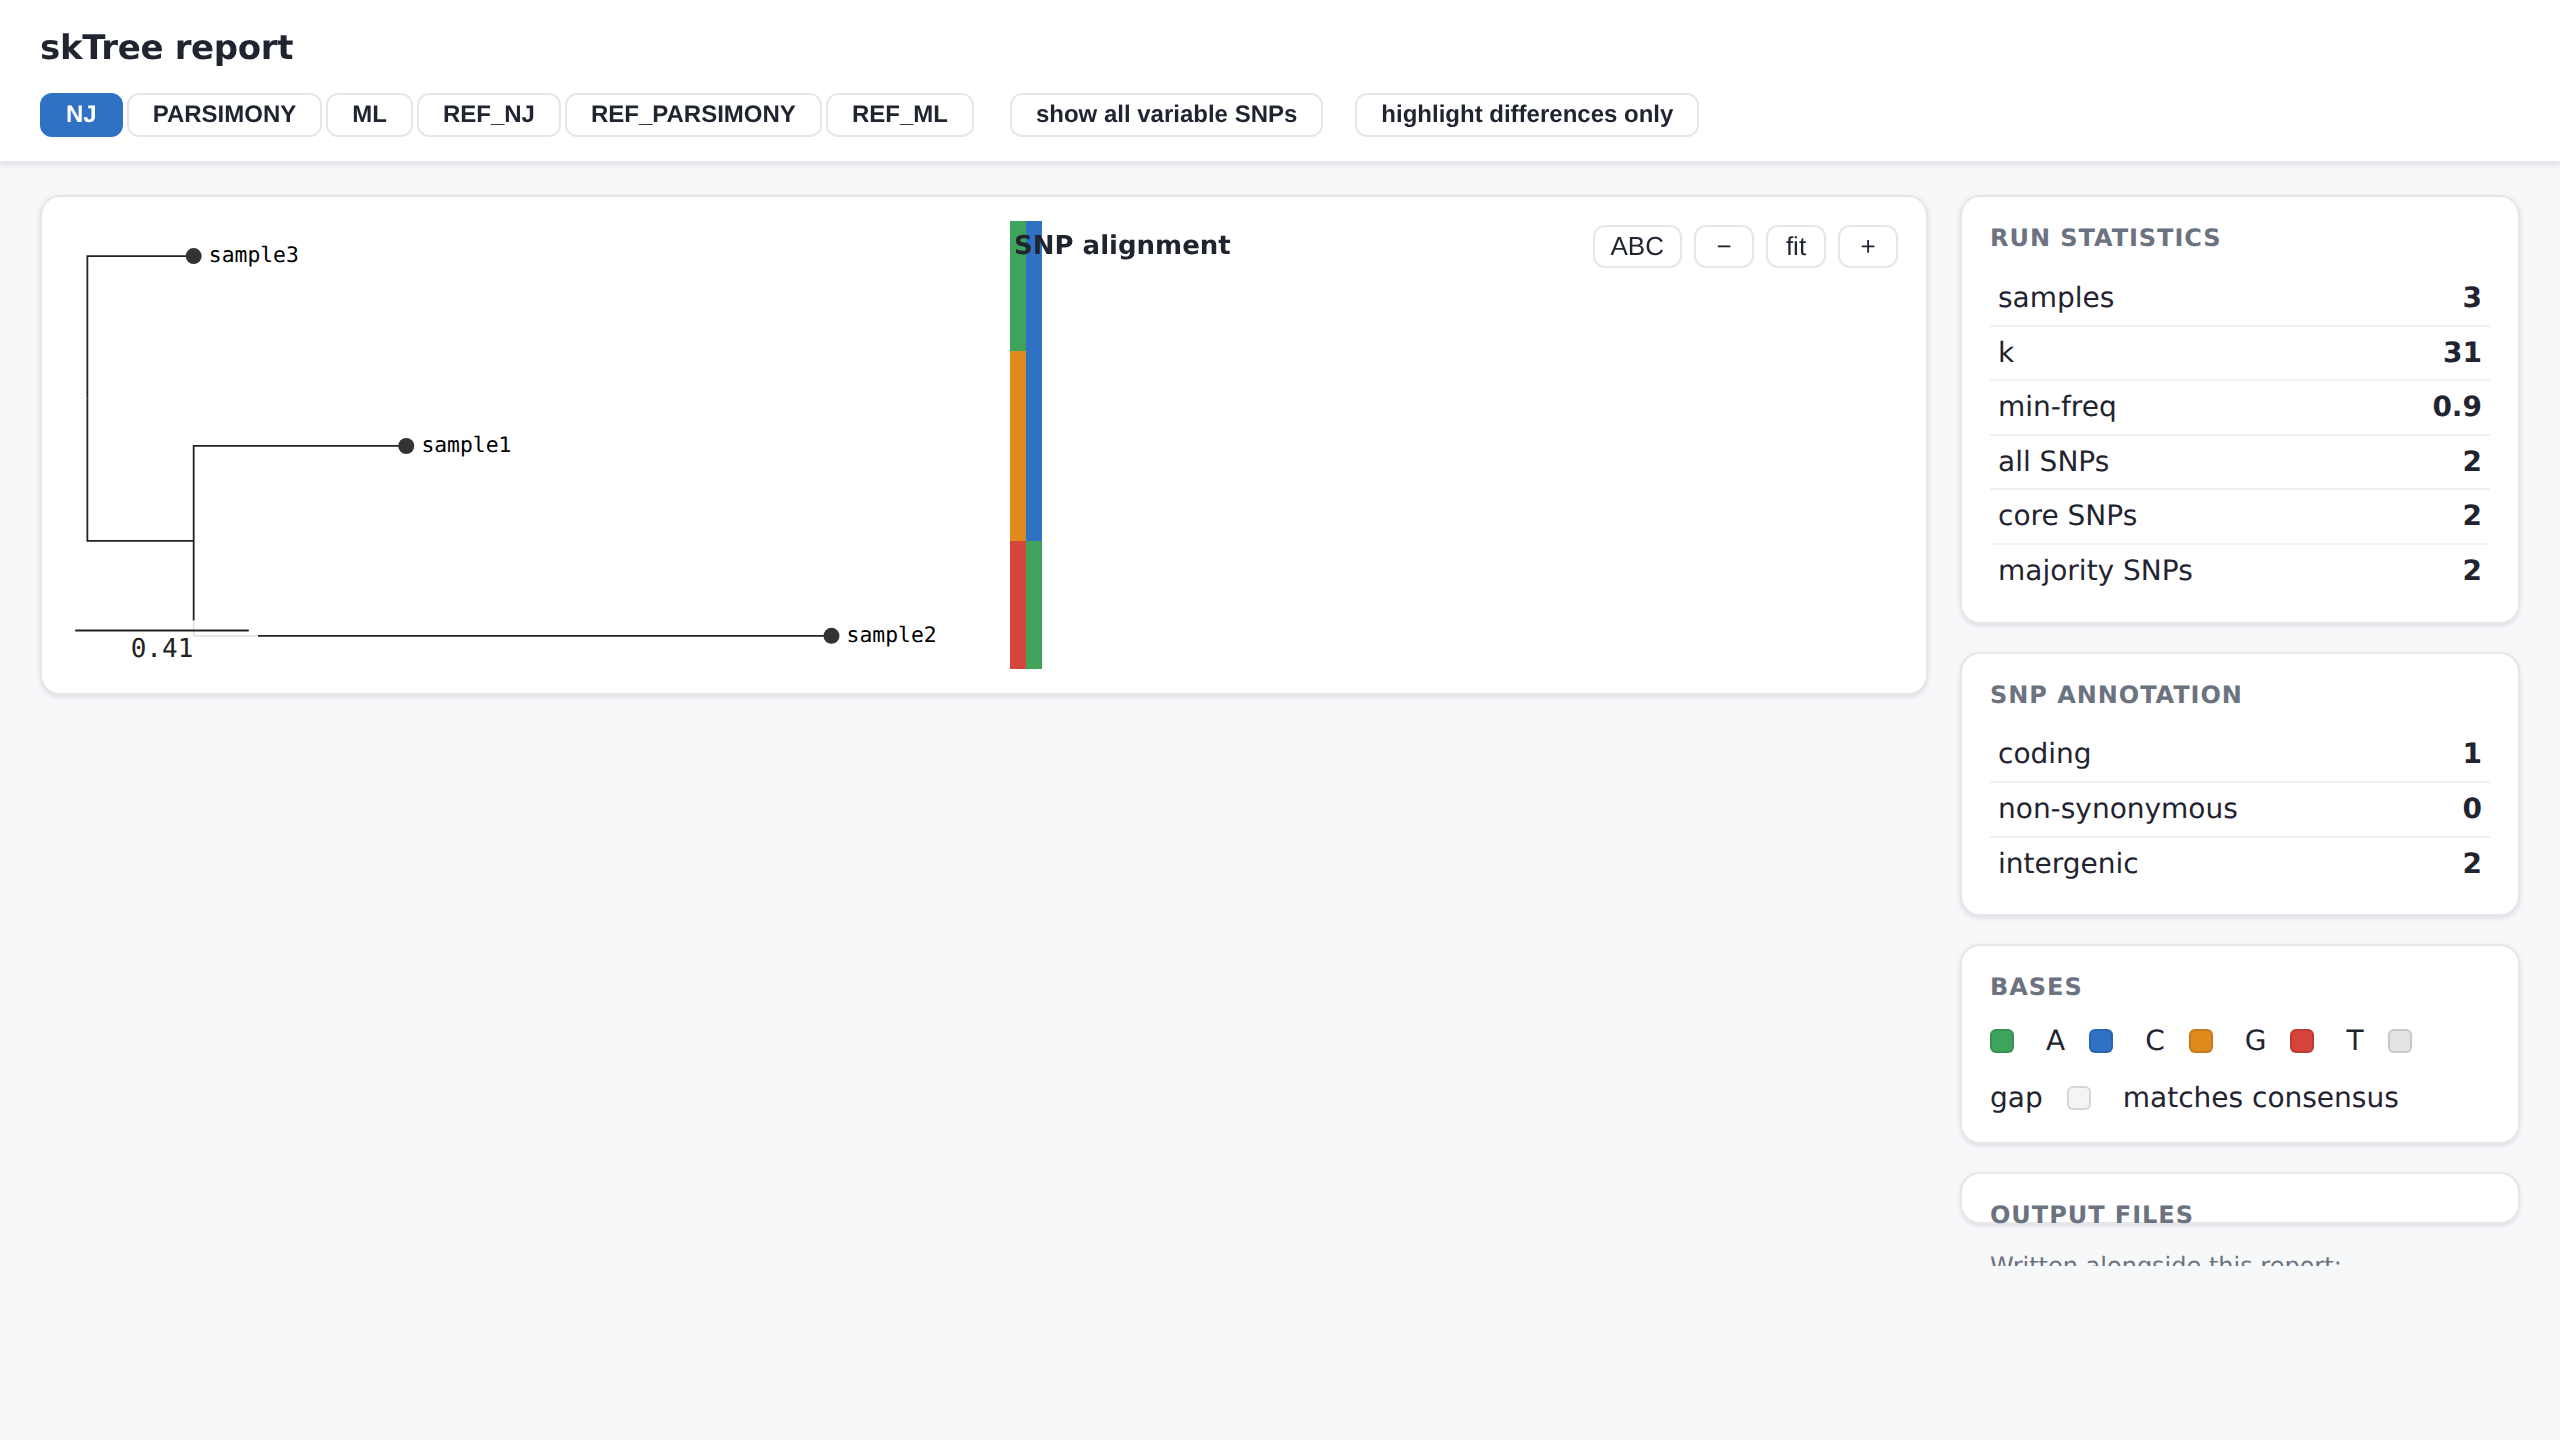
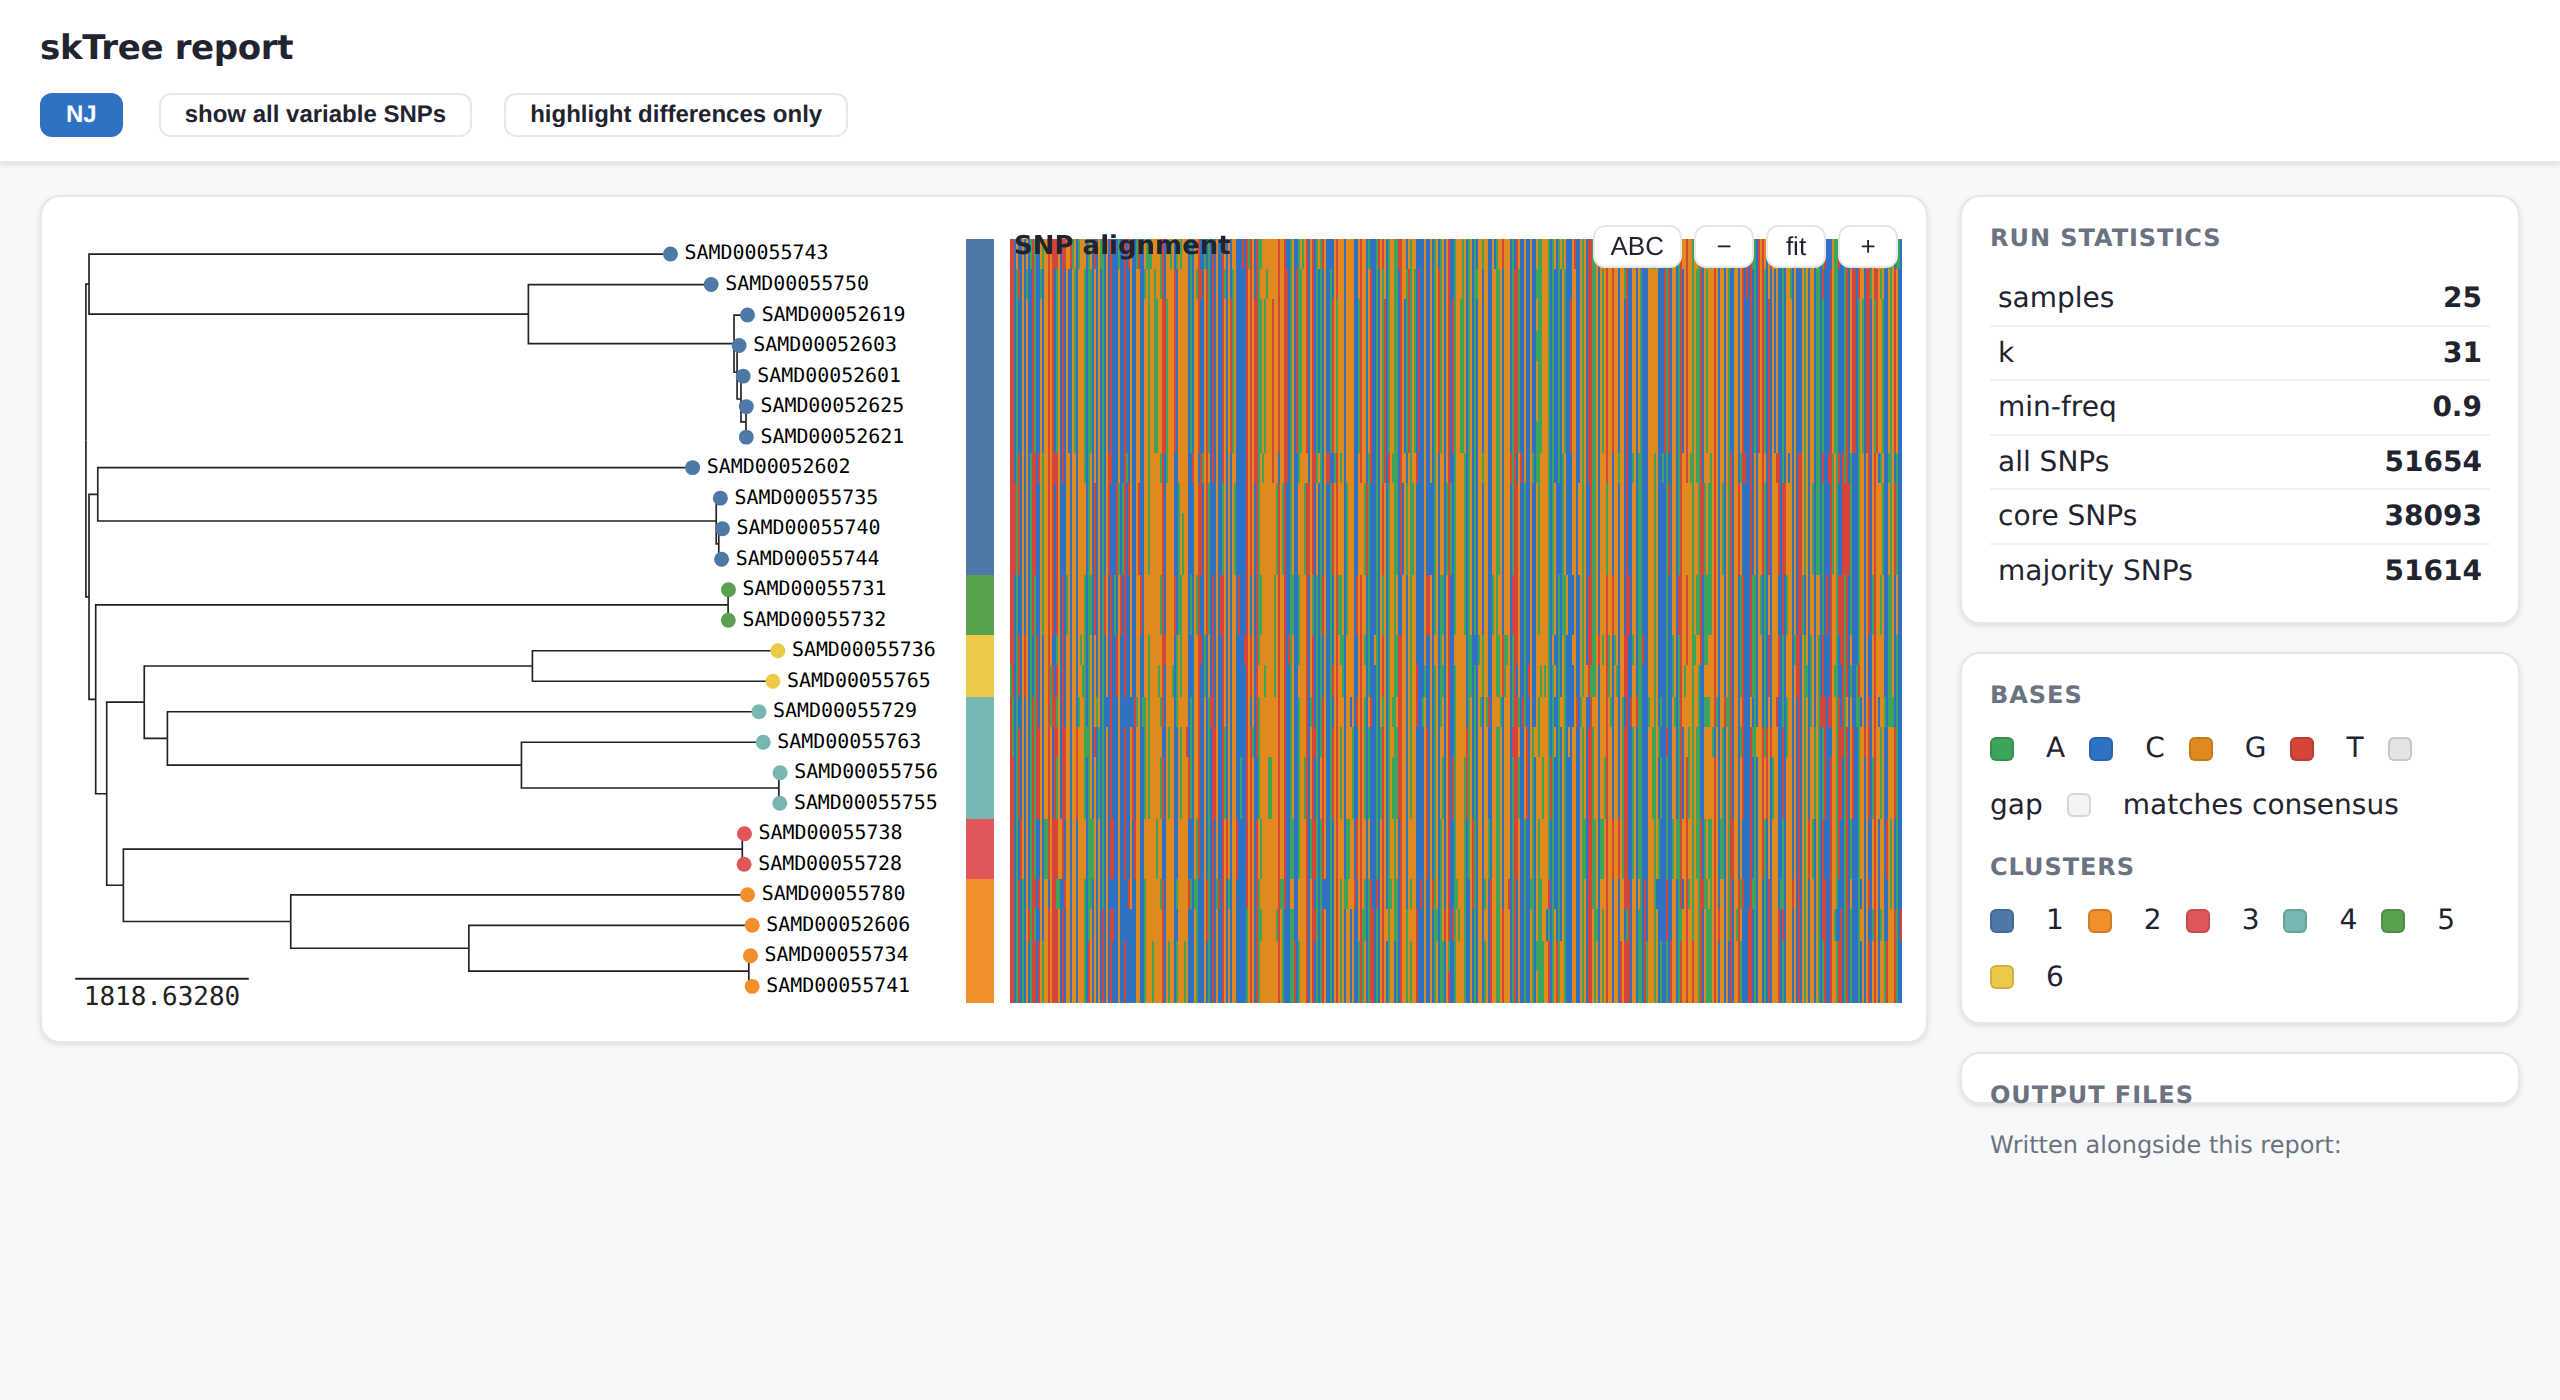
docs: use real-data report screenshot in README

diff --git a/README.md b/README.md
@@ -11,9 +11,10 @@ maximum-likelihood trees.
 
 ![skTree HTML report — interactive tree viewer, SNP alignment, and run statistics](docs/assets/report.png)
 
-*The self-contained `--html` report: switch between NJ / parsimony / ML and the
-reference-anchored map-trees, scrub the SNP alignment, and read run statistics —
-all in one file that opens offline in any browser.*
+*The self-contained `--html` report on a real 25-isolate panel (~52k SNPs): an
+interactive tree — here neighbor-joining, tips colored by fastbaps cluster —
+beside the full SNP alignment, with run statistics and population-structure
+clusters, all in one file that opens offline in any browser.*
 
 > **Scope.** Like SKA, skTree is built for *closely related* isolates (outbreak /
 > surveillance scale). Recall degrades beyond ~1% sequence divergence — skTree
